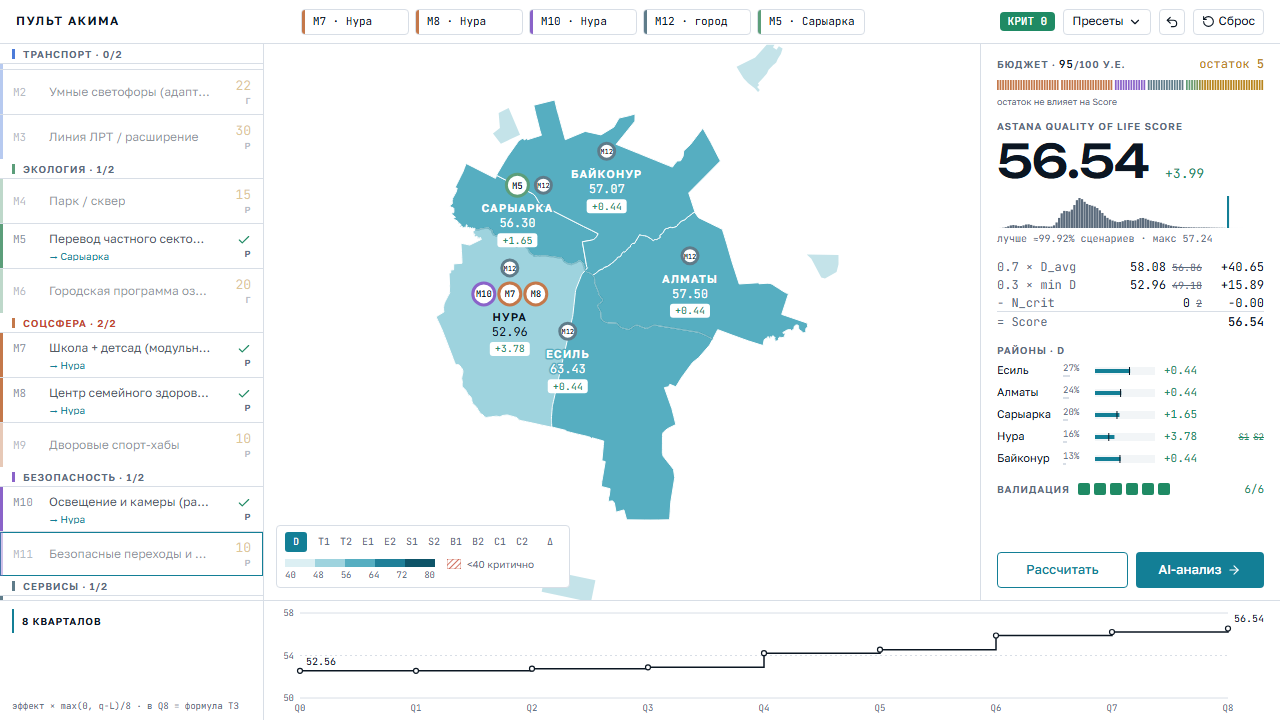
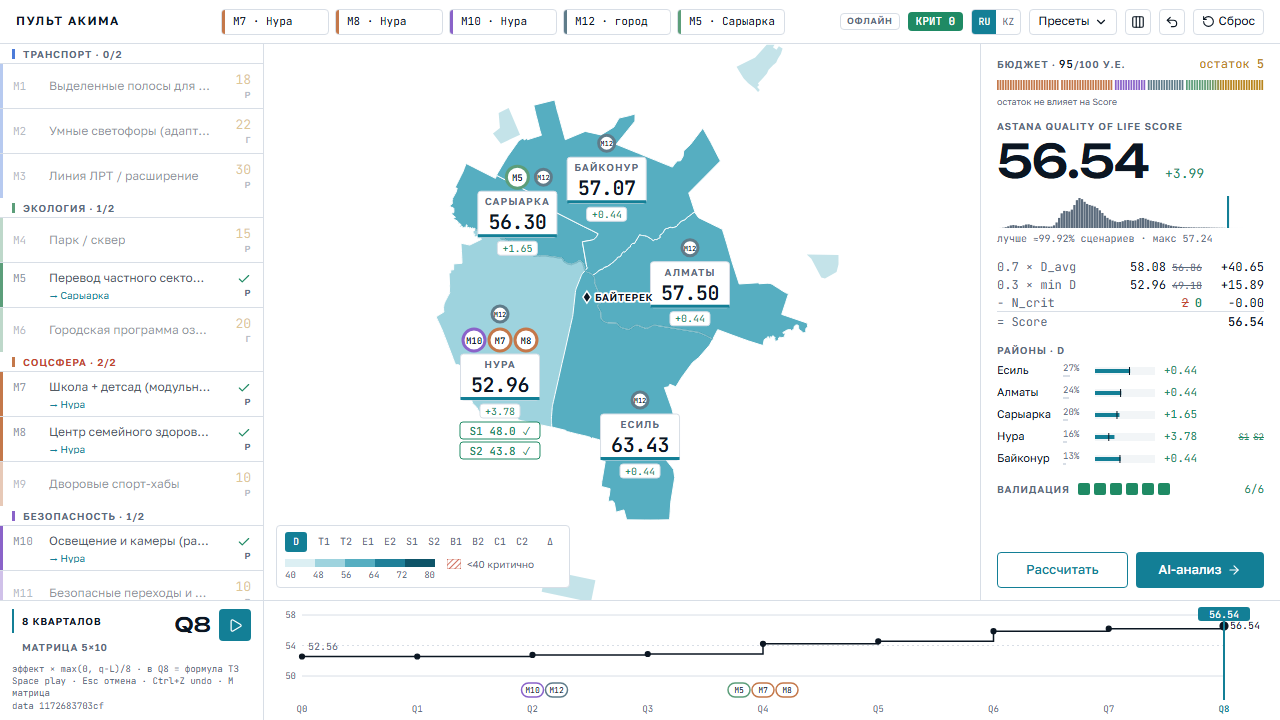
feat(web): big district plates and Baiterek landmark on the map
- District labels on the Pult map are flat plates: name in caps, value in
  20 px mono (readable on a projector), bottom rule red while the district has
  an indicator below 40, accent after it is closed; delta chip under the plate;
  ghost preview draws the plate border dashed
- Manual label points for Есиль and Нура (their centroids made plates overlap);
  pins, what-if chips and closed-pair labels follow the new geometry
- Baiterek landmark on the left bank of the Ishim for instant orientation
- README screenshots and docs/demo.gif regenerated

Check: cd web; npm test; npm run build; npm run e2e   # 142 + 2 passed

diff --git a/web/src/components/map/MapAstana.tsx b/web/src/components/map/MapAstana.tsx
@@ -171,6 +171,7 @@ export function MapAstana({
                   }
                   ghost={ghost !== null}
                   nameless={labels === 'numbers'}
+                  critical={critical(i)}
                   indicator={indicator}
                   fillColor={fill(i)}
                   blocked={blocked[id]}
@@ -194,13 +195,22 @@ interface LabelProps {
   /** Дельта — к текущему набору в режиме «что если»: пунктир, opacity 0.6. */
   ghost?: boolean
   nameless?: boolean
+  /** В районе есть показатель < 40: черта плашки красная. */
+  critical?: boolean
   indicator: MapIndicator
   fillColor: string
   blocked?: string
 }
 
-function DistrictLabel({ id, at, value, delta, ghost = false, nameless = false, indicator, fillColor, blocked }: LabelProps) {
+/** Геометрия плашки района относительно центроида: пины — выше, чипы и ярлыки — ниже. */
+const PLATE_TOP = -26
+const PLATE_BOTTOM = 20
+
+function DistrictLabel({ id, at, value, delta, ghost = false, nameless = false, critical = false, indicator, fillColor, blocked }: LabelProps) {
   const lang = useUi((s) => s.lang)
+  if (!nameless) {
+    return <DistrictPlate {...{ id, at, value, delta, ghost, critical, indicator, blocked }} name={districtName(id, lang).toUpperCase()} />
+  }
   const ink = indicator === 'delta' ? 'var(--ink)' : labelInk(value)
   const text = indicator === 'delta' ? fmtSigned(value) : indicator === 'D' ? fmt2(value) : fmt1(value)
   const showDelta = !blocked && delta !== null && Math.abs(delta) >= 0.005
@@ -239,6 +249,82 @@ function DistrictLabel({ id, at, value, delta, ghost = false, nameless = false, 
       )}
       {blocked && (
         <g transform="translate(0,16)">
+          <rect x={-78} y={0} width={156} height={15} rx={3} style={{ fill: 'var(--panel)', stroke: 'var(--down)' }} />
+          <text y={11} fontSize={10} style={{ fill: 'var(--down)', fontFamily: 'var(--font-sans)' }}>
+            {blocked}
+          </text>
+        </g>
+      )}
+    </g>
+  )
+}
+
+interface PlateProps extends Omit<LabelProps, 'nameless' | 'fillColor'> {
+  name: string
+}
+
+/**
+ * Плашка района: имя капителью, число крупно (читается с проектора), снизу черта —
+ * красная, если в районе есть показатель < 40. Плоская: 1px рамка, без теней.
+ */
+function DistrictPlate({ at, value, delta, ghost = false, critical = false, indicator, blocked, name }: PlateProps) {
+  const text = indicator === 'delta' ? fmtSigned(value) : indicator === 'D' ? fmt2(value) : fmt1(value)
+  const showDelta = !blocked && delta !== null && Math.abs(delta) >= 0.005
+  const chip = showDelta ? (indicator === 'D' ? fmtSigned(delta) : fmtSigned(delta, 1)) : ''
+  const chipWidth = chip.length * 6.4 + 8
+  const width = Math.max(name.length * 7.4, text.length * 12.2) + 18
+  const valueColor = indicator === 'delta' ? signColor(value) : 'var(--ink)'
+
+  return (
+    <g transform={`translate(${at[0]},${at[1]})`} textAnchor="middle">
+      <rect
+        x={-width / 2}
+        y={PLATE_TOP}
+        width={width}
+        height={PLATE_BOTTOM - PLATE_TOP}
+        rx={3}
+        style={{
+          fill: 'var(--panel)',
+          stroke: ghost ? 'var(--accent)' : 'var(--line)',
+          strokeDasharray: ghost ? '4 2' : undefined,
+          transition: 'stroke 150ms var(--ease-data)',
+        }}
+      />
+      <rect
+        x={-width / 2}
+        y={PLATE_BOTTOM - 3}
+        width={width}
+        height={3}
+        style={{ fill: critical ? 'var(--down)' : 'var(--accent)', transition: 'fill 300ms var(--ease-data)' }}
+      />
+      <text y={PLATE_TOP + 14} fontSize={10} fontWeight={600} letterSpacing="0.10em" style={{ fill: 'var(--ink-2)', fontFamily: 'var(--font-sans)' }}>
+        {name}
+      </text>
+      <text
+        y={PLATE_BOTTOM - 8}
+        fontSize={20}
+        fontWeight={600}
+        style={{ fill: valueColor, fontFamily: 'var(--font-mono)', fontVariantNumeric: 'tabular-nums', letterSpacing: '-0.02em' }}
+      >
+        {text}
+      </text>
+      {showDelta && (
+        <g transform={`translate(0,${PLATE_BOTTOM + 4})`} opacity={ghost ? 0.6 : 1}>
+          <rect
+            x={-chipWidth / 2}
+            y={0}
+            width={chipWidth}
+            height={14}
+            rx={3}
+            style={{ fill: 'var(--panel)', stroke: ghost ? 'var(--accent)' : 'var(--line)', strokeDasharray: ghost ? '4 2' : undefined }}
+          />
+          <text y={10.5} fontSize={10} style={{ fill: signColor(delta!), fontFamily: 'var(--font-mono)' }}>
+            {chip}
+          </text>
+        </g>
+      )}
+      {blocked && (
+        <g transform={`translate(0,${PLATE_BOTTOM + 4})`}>
           <rect x={-78} y={0} width={156} height={15} rx={3} style={{ fill: 'var(--panel)', stroke: 'var(--down)' }} />
           <text y={11} fontSize={10} style={{ fill: 'var(--down)', fontFamily: 'var(--font-sans)' }}>
             {blocked}

diff --git a/web/src/components/map/PultMap.tsx b/web/src/components/map/PultMap.tsx
@@ -91,6 +91,7 @@ export function PultMap() {
         padding={[56, 40, 80, 40]}
         overlay={(layout) => (
           <>
+            <Landmark at={layout.projection(BAITEREK)} />
             <Pins
               layout={layout}
               shapes={shapes}
@@ -104,7 +105,7 @@ export function PultMap() {
               // Несколько снятых пар одного района — столбиком, а не друг на друге.
               const row = closed.slice(0, i).filter((q) => q.district_id === p.district_id).length
               return (
-                <g key={`${p.district_id}.${p.indicator}`} transform={`translate(${x},${y + 36 + row * 20})`} pointerEvents="none">
+                <g key={`${p.district_id}.${p.indicator}`} transform={`translate(${x},${y + 42 + row * 20})`} pointerEvents="none">
                   <rect x={-40} y={0} width={80} height={17} rx={3} style={{ fill: 'var(--panel)', stroke: 'var(--up)' }} />
                   <text y={12.5} textAnchor="middle" fontSize={11} style={{ fill: 'var(--up)', fontFamily: 'var(--font-mono)', fontWeight: 500 }}>
                     {p.indicator} {fmt1(p.now)} ✓
@@ -127,6 +128,29 @@ export function PultMap() {
       {popover && <PinPopover pin={popover} onClose={() => setPopover(null)} />}
       <MapLegend />
     </div>
+  )
+}
+
+/** Байтерек — ориентир, по которому жюри узнаёт город (левый берег, у Ишима). */
+const BAITEREK: [number, number] = [71.4305, 51.1283]
+
+function Landmark({ at }: { at: [number, number] | null }) {
+  if (!at) return null
+  const [x, y] = at
+  return (
+    <g transform={`translate(${x},${y})`} pointerEvents="none" aria-label="Байтерек">
+      <path d="M0 -6 L4 0 L0 6 L-4 0 Z" style={{ fill: 'var(--ink)', stroke: 'var(--panel)', strokeWidth: 1.5 }} />
+      <text
+        x={8}
+        y={3.5}
+        fontSize={10}
+        fontWeight={600}
+        letterSpacing="0.06em"
+        style={{ fill: 'var(--ink)', fontFamily: 'var(--font-sans)', paintOrder: 'stroke', stroke: 'var(--panel)', strokeWidth: 3, strokeLinejoin: 'round' }}
+      >
+        БАЙТЕРЕК
+      </text>
+    </g>
   )
 }
 

diff --git a/web/src/lib/geo.ts b/web/src/lib/geo.ts
@@ -55,8 +55,17 @@ export function districtShapes(): DistrictShape[] {
 export interface MapLayout {
   projection: GeoProjection
   path: GeoPath
-  /** Точка подписи и пинов — центроид крупнейшего полигона, в пикселях. */
+  /** Точка подписи и пинов — центроид крупнейшего полигона (или LABEL_POINTS), в пикселях. */
   anchors: Record<DistrictId, [number, number]>
+}
+
+/**
+ * Точки подписи там, где центроид неудачен: у Есиля он лежит у самой границы с Нурой,
+ * и плашки двух районов налезают друг на друга. Координаты — lon/lat внутри района.
+ */
+const LABEL_POINTS: Partial<Record<DistrictId, [number, number]>> = {
+  esil: [71.5054, 51.0017],
+  nura: [71.308, 51.0549],
 }
 
 /** Отступ: одно число или [сверху, справа, снизу, слева]. */
@@ -74,7 +83,12 @@ export function fitMap(shapes: DistrictShape[], width: number, height: number, p
     frame,
   )
   const path = geoPath(projection)
-  const anchors = Object.fromEntries(shapes.map((s) => [s.id, path.centroid(s.main)])) as Record<DistrictId, [number, number]>
+  const anchors = Object.fromEntries(
+    shapes.map((s) => {
+      const point = LABEL_POINTS[s.id]
+      return [s.id, (point && projection(point)) ?? path.centroid(s.main)]
+    }),
+  ) as Record<DistrictId, [number, number]>
   return { projection, path, anchors }
 }
 

diff --git a/web/src/components/map/WhatIfLabels.tsx b/web/src/components/map/WhatIfLabels.tsx
@@ -17,7 +17,7 @@ export function WhatIfLabels({ layout, shapes, options }: { layout: MapLayout; s
         return (
           <motion.g key={o.district} initial={{ opacity: 0 }} animate={{ opacity: 1 }} transition={{ duration: 0.15 }}>
             {o.best && <path d={layout.path(shape.main) ?? undefined} style={{ fill: 'none', stroke: 'var(--accent)', strokeWidth: 2.5 }} />}
-            <g transform={`translate(${x},${y + 16})`}>
+            <g transform={`translate(${x},${y + 24})`}>
               <rect x={-w / 2} y={0} width={w} height={17} rx={3} style={{ fill: 'var(--panel)', stroke: o.best ? 'var(--accent)' : color, strokeWidth: 1 }} />
               <text y={12.5} textAnchor="middle" fontSize={12} style={{ fill: color, fontFamily: 'var(--font-mono)', fontWeight: 500 }}>
                 {text}

diff --git a/web/src/components/map/Pins.tsx b/web/src/components/map/Pins.tsx
@@ -5,8 +5,8 @@ import { pinOffset, type DistrictShape, type MapLayout } from '../../lib/geo'
 import type { Decision } from '../../types/api'
 import { DISTRICT_IDS, type DistrictId } from '../../types/data'
 
-/** Пины над подписью района: центр на 30 px выше центроида. */
-const PIN_LIFT = -32
+/** Пины над плашкой района. */
+const PIN_LIFT = -40
 
 export interface PinTarget {
   measureId: string
